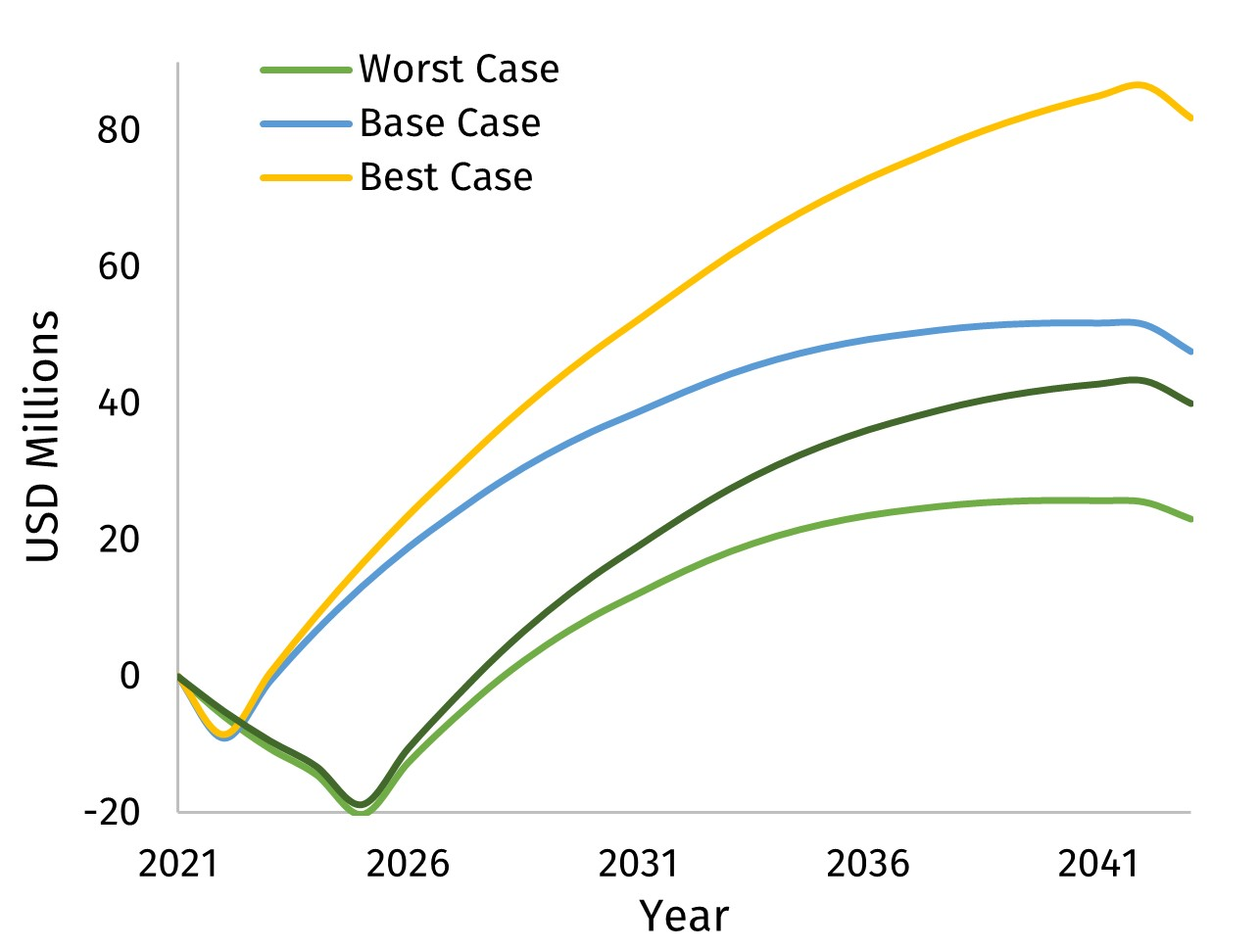
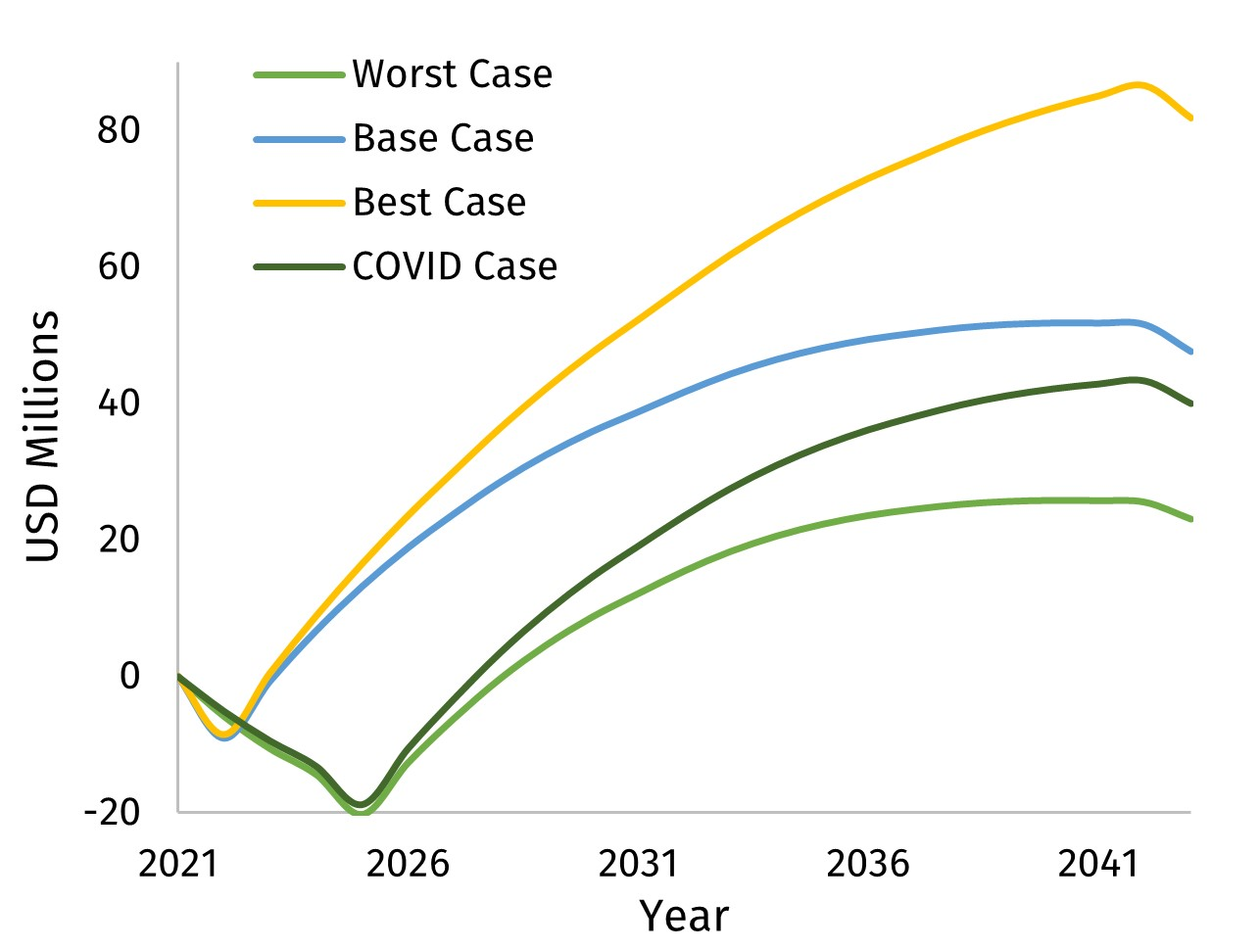
Update on Overleaf.

Changed region(s): [[0.1866, 0.0619, 0.4666, 0.3096]]

diff --git a/chapters/6-economics/3-business-assessment.tex b/chapters/6-economics/3-business-assessment.tex
@@ -6,7 +6,7 @@ AHP and TOPSIS methodologies were used to determine a suitable country for Nitro
 
 \subsection{Mode of operation: Foreign-invested enterprise}
 \label{sec:mode-of-operation}
-Nitroma will establish itself as a foreign-invested enterprise (FIE) in China, in line with the Foreign Investment Law 2020 (XX). As such, Nitroma will be incorporated under Chinese laws, with its equity investment coming from foreign investors and debt investment coming from local commercial banks (see Section XX). As an FIE, Nitroma will have independent management of its processes, making it easier to negotiate contracts with buyers and coordinate logistics with suppliers. Being the innovator of a novel continuous liquid-phase nitration process, Nitroma will enjoy the benefit of owning intellectual property under its own name without sharing trade secrets with a local partner. Nitroma will not need to share profits either. 
+Nitroma will establish itself as a foreign-invested enterprise (FIE) in China, in line with the Foreign Investment Law 2020 (XX). As such, Nitroma will be incorporated under Chinese laws, with its equity investment coming from foreign investors and debt investment coming from Chinese commercial banks \ref{sec:de-ratio}). As an FIE, Nitroma will have independent management of its processes, making it easier to negotiate contracts with buyers and suppliers. Being the innovator of a continuous liquid-phase nitration process, Nitroma will enjoy the benefit of owning intellectual property under its own name without sharing trade secrets with a local partner. Nitroma will not need to share profits either. 
 
 In recent times, China has adopted an increasingly open stance towards foreign business as part of an effort to gain allies in its trade war against the US and to globalize its domestic industries (XX). The 2014 deal between INEOS and China’s state-run Sinopec to build a phenol plant in Nanjing, China is evidence of government interest in harnessing foreign capabilities for the enhancement of local industry (XX). Opportunities for favourable tax treatments also exist under new government policies in China, with the chemical raw material and products manufacturing industry being listed in the Ministry of Commerce’s Catalogue of Encouraged Foreign Investment Industries (XX). 
 
@@ -16,7 +16,7 @@ The risks associated with the decision to operate as an FIE include cultural obs
 \label{sec:product-capacity}
 Nitroma’s plant capacity has been designed based on the local product demand and competitive landscape in China. In its first 5 years of operation, Nitroma aims to achieve the average industry market shares for PABA, PABH and OTOL respectively. Based on the estimated 2020 market, this is equivalent to XX, XX and XX tonnes yr\textsuperscript{-1} of PABA, PABH and OTOL respectively. In its first 5 years, the plant will operate for 275 days per year.
 
-As an entrant into the Chinese chemicals industry where most buyers are locked into existing contracts with suppliers, Nitroma recognises the challenge of acquiring market share. Previous instances of failed market entries in China, like eBay’s expansion into the saturated Chinese electronics market, have made Nitroma wary of a large-scale launch into a highly competitive industry (XX). However, Nitroma believes it can capture the current average industry market share in its first 5 years of operation due to its unique competitive advantage and pricing strategy (discussed in Sections \ref{sec:pricing-strategy} and \ref{sec:USP}). Being an FIE, Nitroma also acknowledges the importance of utilising its first 5 years to develop rapport and build a local distribution network before expanding to a larger manufacturing scale. Details of plant expansion in line with the market growth of PABA, PABH and OTOL are discussed in \cref{sec:expansion}.
+As an entrant into the Chinese chemicals industry where most buyers are locked into existing contracts with suppliers, Nitroma recognises the challenge of acquiring market share. Previous instances of failed market entries in China, like eBay’s expansion into the Chinese electronics market, have made Nitroma wary of a large-scale launch into a highly competitive industry (XX). However, Nitroma believes it can capture the average industry market share in its first 5 years of operation due to its unique competitive advantage and pricing strategy (discussed in Sections \ref{sec:pricing-strategy} and \ref{sec:USP}). Being an FIE, Nitroma also acknowledges the importance of utilising its first 5 years to develop rapport and build a local distribution network before expanding to a larger manufacturing scale. Details of plant expansion in line with the market growth of PABA, PABH and OTOL are discussed in \cref{sec:expansion}.
 
 The initial operational capacity of 275 days per year has been carefully chosen to prevent overproduction based on market demand and Aspen modelling. Nitroma does not wanr to risk overproduction due to the consequent loss of profitability. In-built plant modularity will allow Nitroma to switch between the production of PABA (35 days/year) and PABH (240 days/year), whilst OTOL will always be produced (275 days/year). As suggested by Coulson \& Richardson, an additional 25 days per year are dedicated to planned shutdowns for maintenance, equipment cleaning and biannual renewals of catalyst (XX). 
 
@@ -35,7 +35,7 @@ It must be noted that Nitroma faces the risk of market backlash in the face of f
 Due to the continuous nature of Nitroma’s nitration process, the company will be able to utilise smaller equipment than traditional batch nitration operators that are prevalent in China (XX). Nitroma will also require lesser utilities to support the nitration process as plant downtime and process inefficiencies will be reduced due to the continuous nature of the process (XX). Therefore, Nitroma will have a lower CAPEX and OPEX than its competitors. Furthermore, Nitroma will enjoy the benefit of a reduced corporate tax rate of \SI{15}{\percent} because of operating as a foreign-invested company in a government-encouraged industry. As a result, Nitroma will be able to undercut its competitors on product price as discussed in \cref{sec:pricing-strategy}.
 
 \paragraph{Reliable supply}
-Following recent disasters like the 2019 deadly explosion in Chenjiagang Industrial Park, growing concerns around plant safety have led Chinese authorities to introduce upgraded safety legislation (XX). Incumbents and newcomers in the Chinese chemicals market must adapt fast to survive the challenging phase of increased regulatory control. In 2019, Jiangsu shut down 9 chemical parks (equivalent to 244 factories) due to safety risks (XX). Nitroma seeks the reward of fulfilling unmet demand as many of its competitors are removed from the market. Nitroma’s inherently safe design means it is not threatened by closures, making it a more reliable supplier for buyers to enter long-term purchasing contracts with.
+Following disasters like the deadly explosion in Chenjiagang Industrial Park in 2019, growing concerns around plant safety have led Chinese authorities to introduce upgraded safety laws (XX). Incumbents and newcomers in the Chinese chemicals market must adapt fast to survive the challenging phase of increased regulatory control. In 2019, Jiangsu shut down 9 chemical parks (equivalent to 1244 factories) due to safety risks (XX). Nitroma seeks the reward of fulfilling unmet demand as many of its competitors are removed from the market. Nitroma’s inherently safe design means it is not threatened by closures, making it a more reliable supplier for buyers to enter long-term purchasing contracts with.
 %For example, one policy has updated a 19-year-old manufacturing standard with new requirements for operating conditions on chemical sites (XX).
 
 \subsection{Capacity expansion}
@@ -45,7 +45,7 @@ As discussed in \cref{sec:product-capacity}, Nitroma will commence operations at
 A very important assumption made in the calculation of these results is that the markets for Nitroma’s products will continue growing at the same rate as forecasted by analysts today. This is uncertain, and so, Nitroma has incorporated checkpoints on its business timeline to review market demand every 5 years (see \cref{sec:business-timeline}). If a further scale up is needed to meet market demand, Nitroma has the flexibility to increase capacity up to 340 operating days per year. Moreover, the ratio of operating days under BH production mode and BA production mode has been maintained at 240:35 (initiating level) over the lifetime of the plant. This is also subject to change based on market review checkpoints.
 %A sensitivity analysis has been conducted on this critical ratio in Section XX.
 
-To facilitate the expansion, Nitroma will not need to purchase new equipment or expand its plant area. However, raw material and utility costs will increase linearly with the number of days. The revenue from product sales will also grow proportionately. Therefore, Nitroma will not see any improvement in its profit margin although its gross profit will increase. The plant expansion has been represented in the company’s financial sheets found in Section XX.
+To facilitate the expansion, Nitroma will not need to purchase new equipment or expand its plant area. However, raw material and utility costs will increase linearly with the number of operational days. The revenue from product sales will also grow proportionately. Therefore, Nitroma will not see any improvement in its profit margin although its profit will increase. The plant expansion has been represented in the company’s financial sheets found in Section XX.
 %It should be noted that Nitroma aims to improve its profit margin by renegotiating contracts with suppliers to decrease the unit cost of raw material, but this is a point for future consideration by the company's procurement team. 
 
 \subsection{Business timeline}

diff --git a/chapters/6-economics/8-sensitivity.tex b/chapters/6-economics/8-sensitivity.tex
@@ -9,7 +9,8 @@ A sensitivity analysis on 5 key parameters was conducted to determine the robust
     \label{Sensitivity_WACC}
     \includegraphics[width=0.47\textwidth]{chapters/6-economics/figures/Sensitivity_WACC.jpg}
 \end{wrapfigure}
-WACC is an important variable because it considers the cost of equity, the cost of debt and corporate tax rate. Nitroma’s cost of equity may change if China’s risk-free rate changes – a likely scenario as China attempts to revive the economy following the coronavirus pandemic (XX). Similarly, the cost of debt may change depending on Nitroma’s creditworthiness.  Figure XX displays the effects of changing WACC on NPV and payback period. As WACC increased, the NPV of the project decreased. Even with a \SI{30}{\percent} increase in WACC, the project NPV decreased by roughly \SI{27}{\percent} to a healthy value of \$61.2 million. In fact, the WACC would need to increase by \SI{108}{\percent} for NPV to become negative - an unrealistic scenario. WACC does not affect payback period since payback period does not account for discounted cash flows, as discussed in \cref{sec:pby}. 
+WACC is an important variable because it considers the cost of equity, the cost of debt and corporate tax rate. Nitroma’s cost of equity may change if China’s risk-free rate changes – a likely scenario as China attempts to revive the economy following the coronavirus pandemic (XX). Similarly, the cost of debt may change depending on Nitroma’s creditworthiness.  Figure XX displays the effects of changing WACC on NPV and payback period. Even with a \SI{30}{\percent} increase in WACC, the project NPV decreased by roughly \SI{27}{\percent} to a healthy value of \$61.2 million. In fact, the WACC would need to increase by \SI{108}{\percent} for NPV to become negative - an unrealistic scenario. WACC does not affect payback period since payback period does not account for discounted cash flows, as discussed in \cref{sec:pby}. 
+% As WACC increased, the NPV of the project decreased.
 
 \subsection{Sensitivity to CAPEX}
 \begin{wrapfigure}{r}{8cm}
@@ -17,7 +18,7 @@ WACC is an important variable because it considers the cost of equity, the cost 
     \label{Sensitivity_CAPEX}
     \includegraphics[width=0.47\textwidth]{chapters/6-economics/figures/Sensitivity_CAPEX.jpg}
 \end{wrapfigure}
-Nitroma’s CAPEX was estimated using the methods suggested by Towler \& Sinnott and XX (XX). Although these methods were averaged, CAPEX is a difficult value to project until direct quotes from manufacturers are obtained. Therefore, it important to conduct a sensitivity on this factor. As expected, CAPEX and NPV are inversely related. A \SI{30}{\percent} increase in CAPEX resulted in a \SI{9}{\percent} decrease in NPV to \$77.2 million. At the same time, the project payback period increased by less than a year to 6.1 years. It was found that CAPEX needs to increase 3.5x in order for the project NPV to become infeasible. This would be paired with an increase of payback period to 14.8 years – still less than the lifetime of the plant.
+Nitroma’s CAPEX was estimated using the methods suggested by Towler \& Sinnott, Douglas and Matche. Although these methods were averaged, CAPEX is a difficult value to project until direct quotes from manufacturers are obtained. Therefore, it important to conduct a sensitivity on this factor. As expected, CAPEX and NPV are inversely related. A \SI{30}{\percent} increase in CAPEX resulted in a \SI{9}{\percent} decrease in NPV to \$77.2 million and an increase in payback period to 6.1 years. It was found that CAPEX needs to increase 3.5x in order for the project NPV to become infeasible. This would be paired with an increase in payback period to 14.8 years – still less than the lifetime of the plant.
 
 \subsection{Sensitivity to price of products}
 \begin{wrapfigure}{r}{8cm}
@@ -25,7 +26,7 @@ Nitroma’s CAPEX was estimated using the methods suggested by Towler \& Sinnott
     \label{Sensitivity_ProductPrice}
     \includegraphics[width=0.47\textwidth]{chapters/6-economics/figures/Sensitivity_ProductPrice.jpg}
 \end{wrapfigure}
-Nitroma’s revenue is entirely dependent on the price of its products, making it an important variable to test. It was found that a \SI{30}{\percent} decrease in product price resulted in NPV decreasing by \SI{95}{\percent} to \$4.6 million and the payback period increasing 3x to 15 years. Therefore, the feasibility of the project was deemed extremely sensitive to product price.  If the product price fell by \SI{33}{\percent}, the project NPV would become \$0. However, this scenario is unlikely as it implies a simultaneous drop of \SI{33}{\percent} across all 3 of Nitroma’s product prices. Nitroma’s diverse product line exposes the company to 3 different sectors – it is designed to protect the business from fluctations in industry. Moreover, analyst forecasts have predicted strong growth for these sectors, as discussed in Section XX, which should provide further confidence to shareholders. In fact, the price of pain relief drugs like paracetamol increased by \SI{62}{\percent} following the pandemic which has a direct correlation with the price of PABA, a pain relief intermediate.
+Nitroma’s revenue is entirely dependent on the price of its products, making it an important variable to test. It was found that a \SI{30}{\percent} decrease in product price resulted in NPV decreasing by \SI{95}{\percent} to \$4.6 million and the payback period increasing 3x to 15 years. Therefore, the feasibility of the project was deemed extremely sensitive to product price.  If the product price fell by \SI{33}{\percent}, the NPV became \$0. However, this scenario is unlikely as it implies a simultaneous price drop of \SI{33}{\percent} across all three of Nitroma’s products which are linked to three different industry sectors. Analyst forecasts have predicted strong growth for these sectors, as discussed in Section \ref{sec:market-analysis}, which should provide confidence to shareholders. In fact, the price of pain relief drugs like paracetamol increased by \SI{62}{\percent} following the pandemic which has a direct correlation with the price of PABA, a pain relief intermediate (XX).
 
 \subsection{Sensitivity to plant commencement}
 \begin{wrapfigure}{r}{8cm}
@@ -33,7 +34,7 @@ Nitroma’s revenue is entirely dependent on the price of its products, making i
     \label{Sensitivity_ProductionDelay}
     \includegraphics[width=0.47\textwidth]{chapters/6-economics/figures/Sensitivity_ProductionDelay.jpg}
 \end{wrapfigure}
-Following the discussion in Section XX, it is important to test the feasibility of Nitroma’s business plan against a delay in production which is not unheard of in China.  This situation could also result in the loss of investor confidence. The importance of this parameter has been further highlighted by the coronavirus pandemic. Figure XX displays the sensitivity of NPV and payback period to the plant’s production date. A delay in sales \& distribution of even 3 years would result in a healthy NPV of \$61.2 million (\SI{27}{\percent} drop) and a payback period equal to industry average 8.4 years. Therefore, Nitroma is confident in the robustness of its business plan.
+Following the discussion in Section XX, it is important to test the feasibility of Nitroma’s business plan against a delay in production which is not unheard of in China. The importance of this parameter has been further highlighted by the coronavirus pandemic. Figure XX displays the sensitivity of NPV and payback period to the plant’s production date. A delay in sales \& distribution of even 3 years would result in a healthy NPV of \$61.2 million (\SI{27}{\percent} drop) and a payback period equal to industry average of 8.4 years. 
 
 \subsection{Sensitivity to BH:BA days}
 \label{sec:sensitivity-ratiodays}
@@ -42,4 +43,4 @@ Following the discussion in Section XX, it is important to test the feasibility 
     \label{Sensitivity_BHBA}
     \includegraphics[width=0.47\textwidth]{chapters/6-economics/figures/Sensitivity_OperatingDays.jpg}
 \end{wrapfigure}
-The ratio of days operating under BH production mode to days under BA production mode is an important factor that affects Nitroma’s profitability. If the ratio is increased by \SI{30}{\percent}, the project NPV increases by \SI{2.5}{\percent} and the payback period decreases by 0.1 years. Therefore, the financial feasibility of the project is minimally affected by a change in the BH:BA ratio. Plant modularity and a diverse product portfolio are key innovative features of Nitroma’s plant design, which offer the benefit of protection against market volatility. The current operational ratio has been carefully chosen to meet the domestic demand for each product (see \cref{sec:product-capacity}, but it is clear that changing this ratio due to fluctuating market demands does not affect the feasibility of Nitroma’s business.
+The ratio of days operating under BH production mode to days under BA production mode is an important factor that affects Nitroma’s profitability. If the ratio is increased by \SI{30}{\percent}, the project NPV increases by \SI{2.5}{\percent} and the payback period decreases by 0.1 years. Therefore, the feasibility of the project is minimally affected by a change in BH:BA. Plant modularity and a diverse product portfolio are key innovative features of Nitroma’s plant design, which offer the benefit of protection against market volatility. The current operational ratio has been carefully chosen to meet the domestic demand for each product (see \cref{sec:product-capacity}), but it is clear that changing this ratio due to fluctuating market demands does not affect the feasibility of Nitroma’s business.

diff --git a/chapters/6-economics/10-conclusion-outlook.tex b/chapters/6-economics/10-conclusion-outlook.tex
@@ -1,7 +1,7 @@
 % !TeX root = ../../main.tex
 \section{Conclusion}
-Nitroma aims to capture a \SI{1.4}{\percent}, \SI{1.9}{\percent} and \SI{0.2}{\percent} share of the PABA, PABH and OTOL market respectively. To combat the highly competitive speciality chemicals environment in China, Nitroma will leverage the financial benefit of employing a novel continuous nitration process to undercut the average market price of its competitors’ products by \SI{12.5}{\percent}. Nitroma also seeks the reward of fulfilling unmet demand as many of its competitors are removed from the market due to unsafe practices. Here, Nitroma promises its buyers a stable product supply due to its inherently safer continuous nitration process. To retain a stable market position over its lifetime, Nitroma will expand its operating capacity by 10 days per year every 5 year until decommissioning in 2043.
+Nitroma aims to capture a \SI{1.4}{\percent}, \SI{1.9}{\percent} and \SI{0.2}{\percent} share of the PABA, PABH and OTOL markets in China respectively. To combat the highly competitive speciality chemicals environment, Nitroma will leverage the financial benefit of employing a novel continuous nitration process to undercut the average market price of its competitors’ products by \SI{12.5}{\percent}. Nitroma also seeks the reward of fulfilling unmet demand as many of its competitors are removed from the market due to unsafe practices. Here, Nitroma promises its buyers a stable product supply due to its inherently safer continuous nitration process. To retain a stable market position over its lifetime, Nitroma will expand its operating capacity by 10 days per year every 5 year until decommissioning in 2043.
 
-The total capital investment required for the nitration plant is estimated to be \$22.5 million, which compares closely with the average capital expense XXXX (XX). Nitroma will sell a \SI{45}{\percent} stake in its business to private equity investors for \$10.3m and receive a \$12.3m loan from local commercial banks at a \SI{5.35}{\percent} interest rate. Operating expenses are calculated to be \$18.2 million per year, comparatively lower than traditional batch nitration processes (XX).  Results from Nitroma’s balance sheet and income statement produced a series of key performance indicators which were used determine the economic feasibility of Nitroma’s business plan. The project is deemed an attractive investment, evidenced by an NPV of \$84.4 million, an IRR of \SI{31}{\percent} (4x higher than the project’s hurdle rate) and a payback period of 5.3 years (\SI{37}{\percent} lower than the industry average (XX)).
+The total capital investment required for the nitration plant is estimated to be \$22.5 million. Nitroma will sell a \SI{45}{\percent} stake in its business to private equity investors for \$10.3m and receive a \$12.3m loan from local commercial banks at a \SI{5.35}{\percent} interest rate. Operating expenses are calculated to be \$18.2 million per year, comparatively lower than traditional batch nitration processes (XX).  Results from Nitroma’s balance sheet and income statement produced a series of key performance indicators which were used determine the economic feasibility of Nitroma’s business plan. The project is deemed an attractive investment, evidenced by an NPV of \$84.4 million, an IRR of \SI{31}{\percent} (4x higher than the project’s hurdle rate) and a payback period of 5.3 years (\SI{37}{\percent} lower than the industry average (XX)).
 
 To test the robustness of the business, sensitivity tests were performed on five major contributing factors to Nitroma’s KPIs. Product price is identified as the most sensitive factor, with a simultaneous \SI{33}{\percent} decrease in the prices of all products resulting in an NPV of \$0. However, the diversity in Nitroma’s product line is specifically designed to protect the business from such market fluctuations. Moreover, Nitroma undercuts the average market price of its competitors so the effect of this factor is mitigated. Different economic scenarios were also modelled as a strength test. One particular scenario was related to events where COVID-19 resurfaced in Nanjing, China, and strong restriction measures were in place till 2026, resulting in delay in production and reduction in operational days. Across all tested scenarios, the minimum ending cash balance was \$23.1 million and the longest payback period was 10.3 years. These results show the robustness of this project and should enhance the confidence of the shareholders.

diff --git a/chapters/6-economics/9-scenarios.tex b/chapters/6-economics/9-scenarios.tex
@@ -1,11 +1,11 @@
 % !TeX root = ../../main.tex
 
-\section{Business scenarios}
+\section{Economic scenarios}
 
 \begin{table}[H]
 \centering
-\caption{Scenario analysis for different cases}
-\label{scenario_analysis}
+\caption{Percentage change in parameters for scenario analysis}
+\label{tab:scenario_analysis}
 \begin{tabular}{@{}l|llll@{}}
 \toprule
                       & \multicolumn{4}{c}{\textbf{Scenarios}}                                                        \\
@@ -26,11 +26,8 @@ Interest rate         & -                           & -                         
     \includegraphics[width=0.47\textwidth]{chapters/6-economics/figures/DCF.jpg}
 \end{wrapfigure}
 
-Four scenarios were analysed to determine the combined effect of the parameters tested in Section XX. Table XX summarises the fluctuations made in each scenario. The best- and worst-case scenarios were based off the most extreme variations of each parameter in the sensitivity analysis. 
+Four scenarios were analysed to understand the combined effect of the parameters tested in Section \ref{sec:sensitivities-kpis}. Table \ref{tab:scenario_analysis} summarises the fluctuations made in each scenario. The best- and worst-case scenarios were based off the most extreme variations of each parameter in the sensitivity analysis. 
 
+One scenario was related to a situation where COVID-19 resurfaced in Nanjing, China, and restriction measures were in place till 2026. The number of operational days per year was expected to drop by \SI{40}{\percent} based on the lockdown period during the initial outbreak of coronavirus in 2020. A \SI{40}{\percent} decrease in the cost of raw materials was also modelled into the scenario, based on the fall in toluene prices between January and April 2020. Similarly, a \SI{40}{\percent} decrease in interest rate was applied, based off the drop in the average Chinese interest rate between January and April 2020. A 3-year delay in production was also anticipated due to reduced labour availability. The price of Nitroma’s products was not expected to change considerably, as discussed in Section \ref{sec:market-analysis}. It should be noted that the coronavirus conditions were only applied until 2026, after which the base case conditions were restored in the scenario test.
 
-
-One particular scenario was related to a situation where COVID-19 resurfaced in Nanjing, China, and strong restriction measures were in place till 2026. The number of operational days per year was expected to drop by \SI{40}{\percent} based on lockdown measures from the initial outbreak of coronavirus in 2020. A \SI{40}{\percent} decrease in the cost of raw materials was also modelled into the scenario, based on the fall in toluene prices between January and April 2020. Similarly, a \SI{40}{\percent} decrease in Nitroma’s interest rate was applied, based off the drop in the Chinese interest rate between January and April 2020. Furthermore, a 3-year delay in production was expected due to reduced labour availability. The price of Nitroma’s products was not expected to change considerably, as discussed in Section XX. It should be noted that the coronavirus conditions were only applied until 2026, after which the base case conditions were restored in the financial model.
-
-
-Figure XX shows Nitroma’s discounted cash flows till 2043 for each tested scenario. Across all the tested scenarios, the minimum ending cash balance was \$23.1 million and the longest payback period was 10.3 years. These results show the robustness of this project and should enhance the confidence of the shareholders.
+Figure \ref{DCF_scenario} shows Nitroma’s discounted cash flows till 2043 for each tested scenario. Across all the tested scenarios, the minimum ending cash balance was \$23.1 million and the longest payback period was 10.3 years. These results show the robustness of this project and should enhance the confidence of the shareholders.
